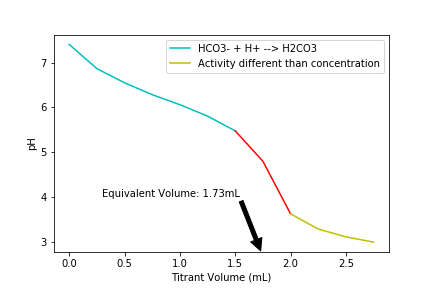
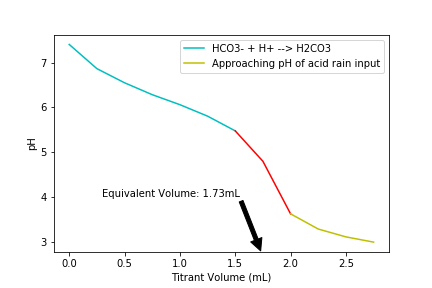
update proofread

Changed region(s): [[0.3912, 0.125, 0.8727, 0.2812]]

diff --git a/Lab 3 - ANC/labfire_Lab3_Report.md b/Lab 3 - ANC/labfire_Lab3_Report.md
@@ -1,5 +1,12 @@
+Felix Yang Eirini Sarri
+
+Lab Fire Group 5
+
+Felix Yang: 5 hours
+
+Eirini Sarri: 7 hours
 # Introduction and Objectives
-In the past, some regions of the United States had serious air quality issues, especially with acid rain caused by the combustion of fossil fuels that produce sulfuric and nitric acid in the atmosphere. The biggest consequence of acid rain is the acidification of lakes that do not have enough acid neutralizing capacity (ANC) in their soils to mitigate sudden additions of acidic solutions. Today, there is a huge problem with acid rain in Asian cities such as Beijing and New Delhi due to their rapid industrial growth. The team decided to do this experiment with the goal of learning a practical method of remediating the effects of acid rain on lakes by adding substances in the water which increase the levels of ANC. This also provides the first opportunity to code pH, ANC equations, and reactor equations (CMFR) as shown below.  
+In the past, some regions of the United States had serious air and water quality issues, especially with acid rain caused by the combustion of fossil fuels that produce sulfuric and nitric acid in the atmosphere. The biggest consequence of acid rain on water quality is the acidification of lakes that do not have enough acid neutralizing capacity (ANC) in their soils to mitigate sudden additions of acidic solutions. Today, the problem with acid rain is concentrated in Asian cities such as Beijing and New Delhi due to their rapid industrial growth. The team decided to do this experiment with the goal of learning a practical method of remediating the effects of acid rain on lakes by adding substances in the water which increase the levels of ANC. The acid rain lab provides the first opportunity to code pH, ANC equations, and reactor equations (CMFR) as shown below. In the next lab (ANC lab), titration techniques and Gran plot analysis were used to back calculate the ANC levels of the lake at different time points, which were used to compare to measured and predicted ANC values found in the previous lab.
 
 Acidity is principally measured using pH which measures the negative log of concentration of hydrogen ions as described in Equation 1. Healthy lakes are typically in the pH range of 6.5 to 8.5, controlling the pH via the carbonate system. This system has the following components: dissolved carbon dioxide, carbonic acid, bicarbonate, and carbonate. Equation 2 describes the molar concentration of the carbonate system but omits dissolved carbon dioxide because it exists at very low levels in aqueous systems.  
 
@@ -30,15 +37,15 @@ $\left[H^{+} \right]=\frac{N_{t} \left(V_{t} -V_{e} \right)}{\left(V_{s} +V_{t} 
 
 The first Gram function is thus defined as equation 8 found below where $V_s$ and $V_t$ are volume of sample and volume of titrant, respectively. $F_1 = \frac{V_s +V_t }{V_s } {[H}^+ {]}$ (8)
 
-The above seven are the principal equations that the team is going to use to determine ANC with increasing amounts of acid rain entering the system.
+The above eight are the principal equations that the team is going to use to determine ANC with increasing amounts of acid rain entering the system.
 
 
 # Procedures
 
-The goal of this experiment was to record the ANC change versus time by simulating the effects of acid rain on a lake. This was done by considering the lake as a Continuously Mixed Flow Reactor (CMFR), and measuring pH, which was then used to determine ANC using the equations described in the introduction. The methods for this experiment could be divided into six parts: lake, addition of acid rain, pH measurement, titration, second experiment, and general measurements.
+The goal of this experiment was to record the ANC change versus time by simulating the effects of acid rain on a lake. This was done by considering the lake as a Continuously Mixed Flow Reactor (CMFR), and measuring pH, which was then used to determine ANC using the equations described in the introduction. The methods for this experiment are divided into six parts: lake, addition of acid rain, pH measurement, titration, second experiment, and general measurements.
 
 ## Lake
-To recreate the lake system (CMFR), a plastic tank of approximately 6 L capacity was filled with approximately 4L of deionized water. 623 mg of $NaHCO_3$ were added to bring the ANC of the lake to the value of 50 $\mu eq/L$ given in the lab manual. A magnetic stir bar was added to the lake and the tank was placed on a magnetic stirrer. Finally, 1 mL of bromocresol green indicator solution was added to the lake which changed the color of the lake from transparent to blue and then eventually to yellow as pH dropped. The metal weir of the tank was set in an angle just above the water level so that addition of acid rain would cause immediate overflow and thus satisfy the requirement for constant volume in a CMFR. The outflow of the lake was located in the bottom and connected via tubing to a drain on the workbench.
+To recreate the lake system (CMFR), a plastic tank of approximately 6 L capacity was filled with approximately 4L of deionized water. 623 mg of $NaHCO_3$ were added to bring the ANC of the lake to the value of 50 $\mu eq/L$ given in the lab manual. A magnetic stir bar was added to the lake and the tank was placed on a magnetic stirrer. Finally, 1 mL of bromocresol green indicator solution was added to the lake which changed the color of the lake from transparent to blue and then eventually to yellow as pH levels dropped. The metal weir of the tank was set in an angle just above the water level so that addition of acid rain would cause immediate overflow and thus satisfy the requirement for constant volume in a CMFR. The outflow of the lake was located in the bottom and connected via tubing to a drain on the workbench.
 
 <p align="center">
   <img src="https://raw.githubusercontent.com/FelixYuHengYang/CEE4530/master/Lab%202%20-%20Acid%20Rain/images/lab_setup_labels.jpg" alt="PH vs Dimensionless Hydraulic Residence Time"/>
@@ -49,16 +56,16 @@ To recreate the lake system (CMFR), a plastic tank of approximately 6 L capacity
 The acid rain solution was provided in an F-style jug. #18 tubing was used to move the acid from the jug to the peristaltic pump, which was set to 70.3 RPM, and then to the lake. Once the peristaltic pump was turned on, the acid entered the lake with a rate of 267 mL/min.
 
 ## pH Measurement
-A pH probe was first calibrated using the ProCoDA software and then inserted into the lake to measure pH. The settings were adjusted so that the probe would log pH measurements every second (again manipulated using ProCoDA.) The probe was placed away from the effluent and close to the center of the lake, keeping in mind to avoid the turbulence caused by the spinning stir bar. ProCoDA thus creates a file with time points and respective pH values.
+A pH probe was first calibrated using the ProCoDA software and then inserted into the lake to measure pH. The settings were adjusted so that the probe would log pH measurements every second (again manipulated using ProCoDA). The probe was placed away from the effluent and close to the center of the lake to avoid the turbulence caused by the spinning stir bar. ProCoDA then creates a file that measures pH values across time.
 
 ## Titration
-Samples were taken from the lake at time 0, 5, 10, 15, and 20 minutes. For this step, labeled plastic beakers were dipped into the lake and approximately 100 mL of sample were removed each time. Titration was performed for the 0, 5, and 10 minute samples because the 15 and 20 minute samples were already at pH lower that 4, meaning that the ANC could simply be calculated by the concentration of protons in the aqueous solution. 50mL of each sample were measured using a graduated cylinder and 0.05 N HCl was added in increments, with ProCoDA generating a Gran plot by measuring the change in pH with each successive HCl addition. By analyzing the data it was determined when the buffer capacity of the solution was over, and therefore the ANC was calculated.
+Samples were taken from the lake at time 0, 5, 10, 15, and 20 minutes. For this step, labeled plastic beakers were dipped into the lake and approximately 100 mL of sample were removed each time. Titration was performed for the 0, 5, and 10 minute samples because the 15 and 20 minute samples were already at pH lower that 4, meaning that the ANC could simply be calculated by the concentration of protons in the aqueous solution. 50mL of each sample were measured using a graduated cylinder and 0.05 N HCl was added in increments, with ProCoDA generating a Gran plot by measuring the change in pH with each successive HCl addition. By analyzing the data it was determined when the buffer capacity of the solution was depleted; finally the ANC was calculated.
 
 ## Second Experiment
-For the second experiment, the substance contributing to the positive ANC of the lake was changed from $NaHCO_3$ to $CaCO_3$. The amount of $CaCO_3$ added was 742 mg (again to get the target 50 μeq/L initial ANC.) Steps 1-3 were repeated, but samples were not obtained for this experiment (step 4.)
+For the second experiment, the substance contributing to the positive ANC of the lake was changed from $NaHCO_3$ to $CaCO_3$. 742 mg of $CaCO_3$ was added (again to get the target 50 μeq/L initial ANC.) Steps 1-3 were repeated, but samples were not obtained for this experiment (step 4.)
 
 ## General Measurements
-The effluent rate was measured by measuring the volume of effluent per 15 seconds. The volume of water was calculated by measuring the mass of the tank with and without the lake water, thus calculating the mass of water, and dividing by the theoretical density of water.
+The effluent rate was determined by measuring the volume of effluent that comes out in 15 seconds. The volume of water was calculated by measuring the mass of the tank with and without the lake water, thus calculating the mass of water, and dividing by the theoretical density of water at room temperature.
 
 For detailed methods on procedures such as pH probe calibration, please refer to the Laboratory Manual.
 
@@ -115,7 +122,7 @@ Figure 1 matches the theoretical expectations for the relationship between pH an
 
 
 <p align="center">
-  <img src="https://raw.githubusercontent.com/FelixYuHengYang/CEE4530/master/Lab%202%20-%20Acid%20Rain/images/Question_4.png" alt=" ANC Open Systemvs dimensionless hydraulic residence time"/>
+  <img src="https://raw.githubusercontent.com/FelixYuHengYang/CEE4530/master/Lab%202%20-%20Acid%20Rain/images/Question_4_smoothed.png" alt=" ANC Open System vs dimensionless hydraulic residence time"/>
 </p>
 <p align= "center"> Figure 4: ANC Open System vs Dimensionless Hydraulic Residence Time
 
@@ -126,7 +133,7 @@ Figure 1 matches the theoretical expectations for the relationship between pH an
 <p align= "center"> Figure 5: ANC for Open and Closed System, and conservative ANC vs Dimensionless Hydraulic Residence Time. The red line demonstrates the experimental ANC values, the blue the closed system model and the yellow the open system model.
 
 
-Moving on to $CaCO_3$, the outcome of the experiment was different than expected. Like in the previous set of graphs the graphs for the closed and open systems of ANC were smoothed out, but the graphs are still available in the code above the report. As demonstrated in Figure 6, the pH drop occurred immediately after the addition the acid rain to the system. This means that the lake had minimal acid neutralizing capacity at the beginning of the experiment, even though the correct amount of $CaCO_3$ was intended to maintain at least $50μeq/L$ ANC after 1 residence time. This result is also apparent in Figure 8 which models the closed system based on pH values, where the ANC levels drop as soon as the experiment starts. Upon observation of the model lake, it was determined that $CaCO_3$ did not dissolve as soon as it was added to water and stirred, but instead was deposited as a solid at the bottom and edges of the tank. This resulted in the wrong initial ANC concentration which is why the system had limited buffering capacity and its pH dropped as soon as the acid entered the tank. Therefore, since the experimental values of pH were not indicative of a real-world system, neither the closed system (Figure 8) nor the open system (Figure 9) matches the observed ANC levels (Figure 7). This can also be seen in Figure 10.
+Moving on to $CaCO_3$, the outcome of the experiment was different than expected. Like in the previous set of graphs the graphs for the closed and open systems of ANC were smoothed out, but the original graphs are still available in the code above the report. As demonstrated in Figure 6, the pH drop occurred immediately after the addition the acid rain to the system. This means that the lake had minimal acid neutralizing capacity at the beginning of the experiment, even though the correct amount of $CaCO_3$ was intended to maintain at least $50μeq/L$ ANC after 1 residence time. This result is also apparent in Figure 8 which models the closed system based on pH values, where the ANC levels drop as soon as the experiment starts. Upon observation of the model lake, it was determined that $CaCO_3$ did not dissolve as soon as it was added to water and stirred, but instead was deposited as a solid at the bottom and edges of the tank. This resulted in the wrong initial ANC concentration which is why the system had limited buffering capacity and its pH dropped as soon as the acid entered the tank. Therefore, since the experimental values of pH were not indicative of a real-world system, neither the closed system (Figure 8) nor the open system (Figure 9) matches the observed ANC levels (Figure 7). This can also be seen in Figure 10.
 
 
 <p align="center">
@@ -158,20 +165,20 @@ Moving on to $CaCO_3$, the outcome of the experiment was different than expected
 
 Labfire learned that the $CaCO_3$ does not dissolve as readily as sodium bicarbonate so by the time the team started adding added the lake did not have a sufficient level of ANC. Therefore the buffer capacity using compared  $CaCO_3$  to the buffer capacity sodium bicarbonate was reduced, causing a reduction of pH when even small amounts of acid were added. Therefore, the team cannot be certain which model fits the measured ANC values better. As a next step, one could repeat the experiment but make sure that the $CaCO_3$ is not present as a solid at the edges of the tank.
 
-From the titration experiments, the team was able to determine the ANC of the lake at different time points, using the samples that were collected at time = 0, 5, 10, 15, and 20 minutes. Since the pH of the solution at time = 15 and time = 20 minutes was already less than 4 (pH at 15 = 3.79 and pH at 20 = 3.355), an approximation was used which states that $ANC = - [H+]$. The pH change over the volume of titrant added to solution was graphed in Figure 11. This graph shows that there are two areas where the solution has a strong enough buffer capacity: a region around a pH of 6.3 and a region around a pH of 3. The first region corresponds to the acid neutralizing capacity of the $HCO_{3}$ which uses up $H+$ by converting into $H_{2}CO_{3}$. The second region [INSERT REASON HERE]. From the Gran plot shown in Figure 12, the equivalent volume of titrant needed to overcome the ANC of the solution was calculated and then compared to the calculation made by ProCoDA. The answers were very similar, as ProCoDA calculated the equivalent volume to be 1.735 $\frac{meq}{L}$ whereas the calculation using linear extrapolation produced an equivalent volume of 1.766 $\frac{meq}{L}$. Finally, using the same method to determine the ANC of the lake at all the other time points, it was determined that the Gran plot method data was matching the conservative ANC data, as shown on Figure 13.
+From the titration experiments, the team was able to determine the ANC of the lake at different time points, using the samples that were collected at time = 0, 5, 10, 15, and 20 minutes. Since the pH of the solution at time = 15 and time = 20 minutes was already less than 4 (pH at 15 = 3.79 and pH at 20 = 3.355), an approximation was used which states that $ANC = - [H+]$, which is derived from Equation 33 in the Acid Neutralizing chapter of the textbook. The pH change over the volume of titrant added to solution was graphed in Figure 11. This graph shows that there are two areas where the solution has a strong enough buffer capacity: a region around a pH of 6.3 and a region around a pH of 3. The first region corresponds to the acid neutralizing capacity of the $HCO_{3}$ which uses up $H+$ by converting into $H_{2}CO_{3}$. The second yellow region of small pH change is due to the pH of the lake approaching the pH of the input. The governing equation for this is $ANC = - [H+]$ as stated above. From the Gran plot shown in Figure 12, the equivalent volume of titrant needed to overcome the ANC of the solution was calculated and then compared to the calculation made by ProCoDA. The answers were very similar, as ProCoDA calculated the equivalent volume to be 1.735 $\frac{meq}{L}$ whereas the calculation using linear extrapolation produced an equivalent volume of 1.766 $\frac{meq}{L}$. Finally, using the same method to determine the ANC of the lake at all the other time points, it was determined that the Gran plot method data corresponded with the conservative ANC data, as shown in the red line on Figure 13.
 
 <p align="center">
-  <img src="https://raw.githubusercontent.com/FelixYuHengYang/CEE4530/master/Lab%202%20-%20Acid%20Rain/images/ANC_calcium_carb_Compare_smooth.png" alt="ANC for open, closed, and predicted ANC"/>
+  <img src="https://raw.githubusercontent.com/FelixYuHengYang/CEE4530/master/Lab%203%20-%20ANC/images/Question_1.png" alt="ANC for open, closed, and predicted ANC"/>
 </p>
-<p align= "center"> Figure 11: ANC for Open and Closed System, and conservative ANC vs Dimensionless Hydraulic Residence Time
+<p align= "center"> Figure 11: pH vs titrant volume
 
 <p align="center">
-  <img src="https://raw.githubusercontent.com/FelixYuHengYang/CEE4530/master/Lab%202%20-%20Acid%20Rain/images/ANC_calcium_carb_Compare_smooth.png" alt="ANC for open, closed, and predicted ANC"/>
+  <img src="https://raw.githubusercontent.com/FelixYuHengYang/CEE4530/master/Lab%203%20-%20ANC/images/Question_2_Figure12.png" alt="ANC for open, closed, and predicted ANC"/>
 </p>
 <p align= "center"> Figure 12: ANC for Open and Closed System, and conservative ANC vs Dimensionless Hydraulic Residence Time
 
 <p align="center">
-  <img src="https://raw.githubusercontent.com/FelixYuHengYang/CEE4530/master/Lab%202%20-%20Acid%20Rain/images/ANC_calcium_carb_Compare_smooth.png" alt="ANC for open, closed, and predicted ANC"/>
+  <img src="https://raw.githubusercontent.com/FelixYuHengYang/CEE4530/master/Lab%203%20-%20ANC/images/Question_3.png" alt="ANC for open, closed, and predicted ANC"/>
 </p>
 <p align= "center"> Figure 13: ANC for Open and Closed System, and conservative ANC vs Dimensionless Hydraulic Residence Time
 
@@ -465,7 +472,7 @@ fig, ax = plt.subplots()
 plt.annotate('Equivalent Volume: 1.73mL',xy=(1.73,2.8),xytext=(0.3,4),           arrowprops=dict(facecolor='black', shrink=0.001))
 ax.plot(Range_1,pH_range_1,'c', label='HCO3- + H+ --> H2CO3')
 ax.plot(Range_2,pH_range_2,'r')
-ax.plot(Range_3,pH_range_3,'y', label='Activity different than concentration')
+ax.plot(Range_3,pH_range_3,'y', label='Approaching pH of acid rain input')
 plt.xlabel('Titrant Volume (mL)')
 plt.ylabel('pH')
 ax.legend()
@@ -511,7 +518,7 @@ plt.xlabel('Titrant Volume (mL)')
 plt.ylabel('Gran function (mole/L)')
 plt.legend(['data'])
 
-plt.savefig('C:/Users/Felix/Documents/Github/CEE4530/Lab 3 - ANC/images/Question_2')
+plt.savefig('C:/Users/Felix/Documents/Github/CEE4530/Lab 3 - ANC/images/Question_2_Figure12')
 plt.show()
 
 V_equivalent_0 #ProCoDA Calculation
